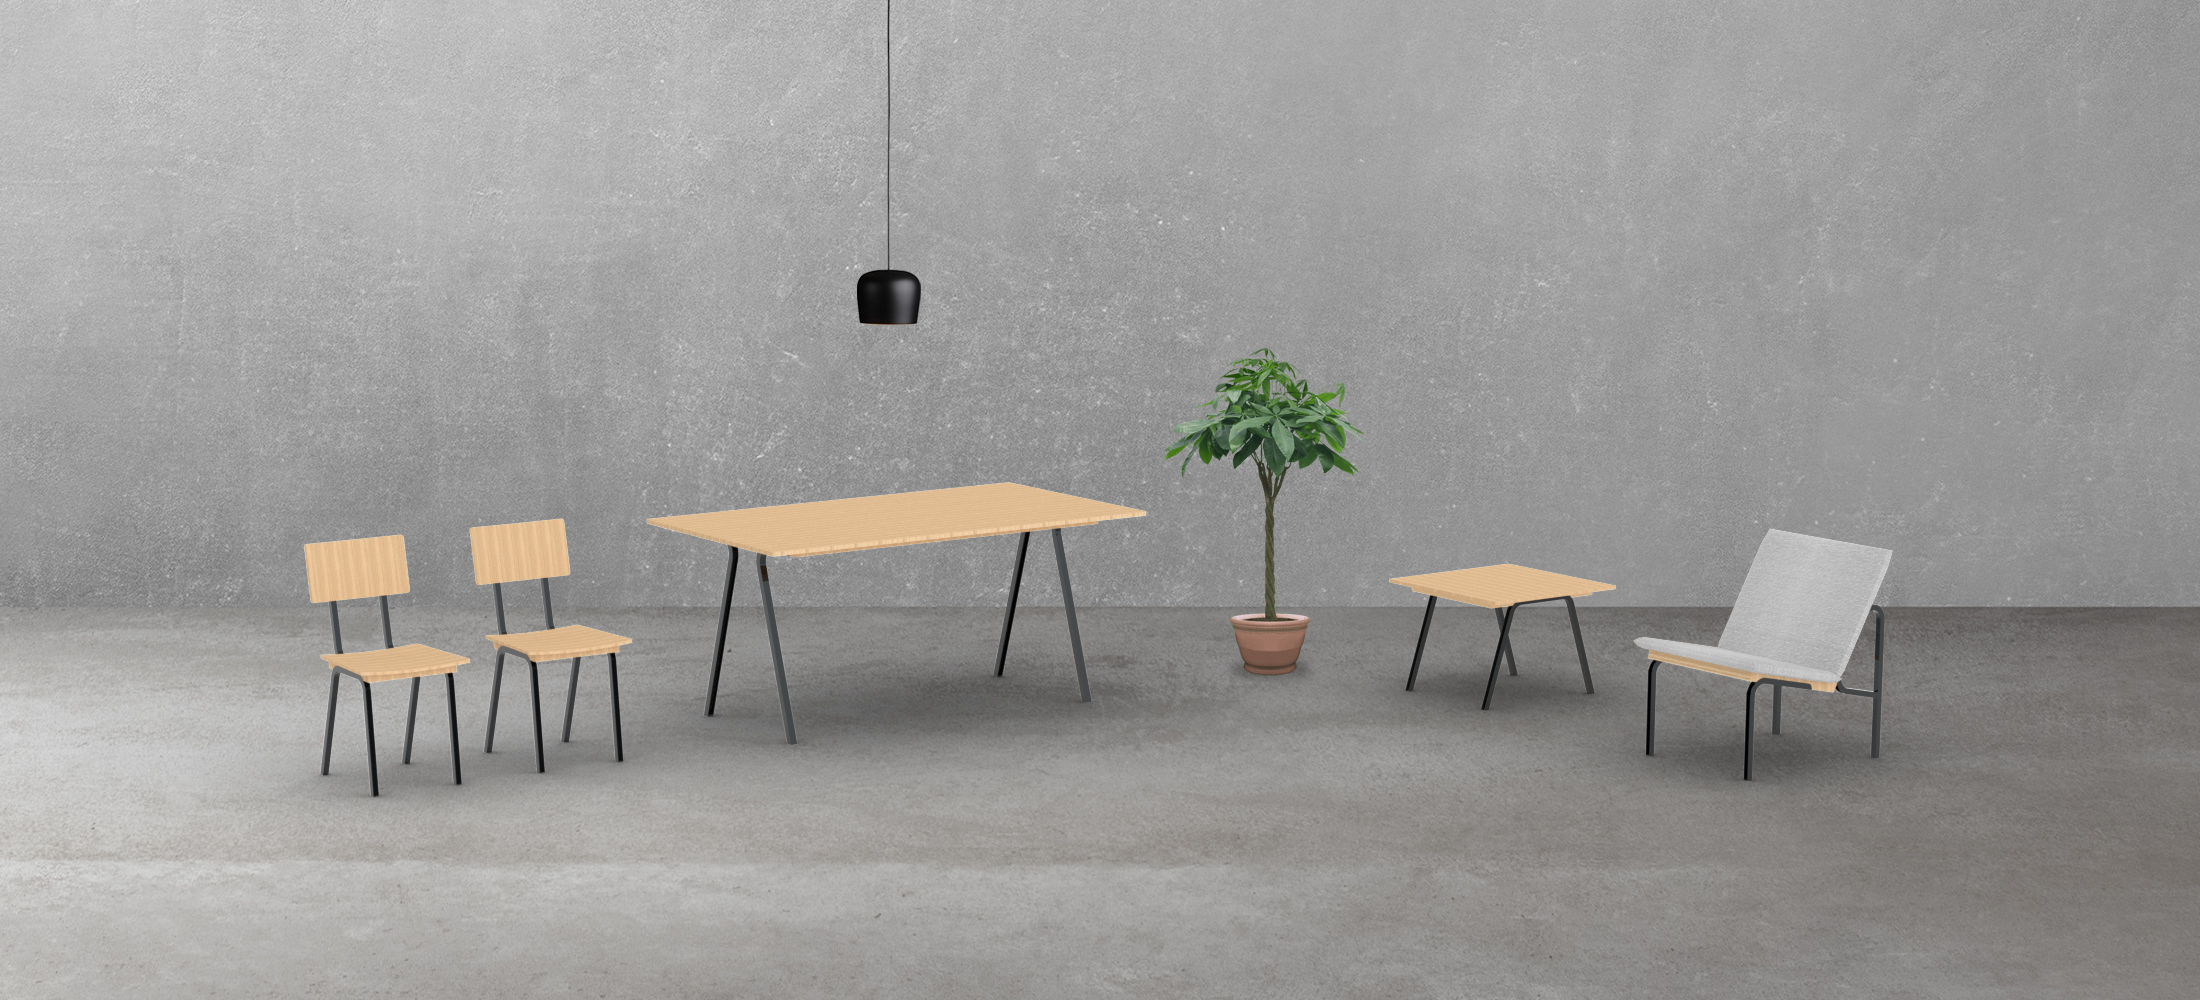
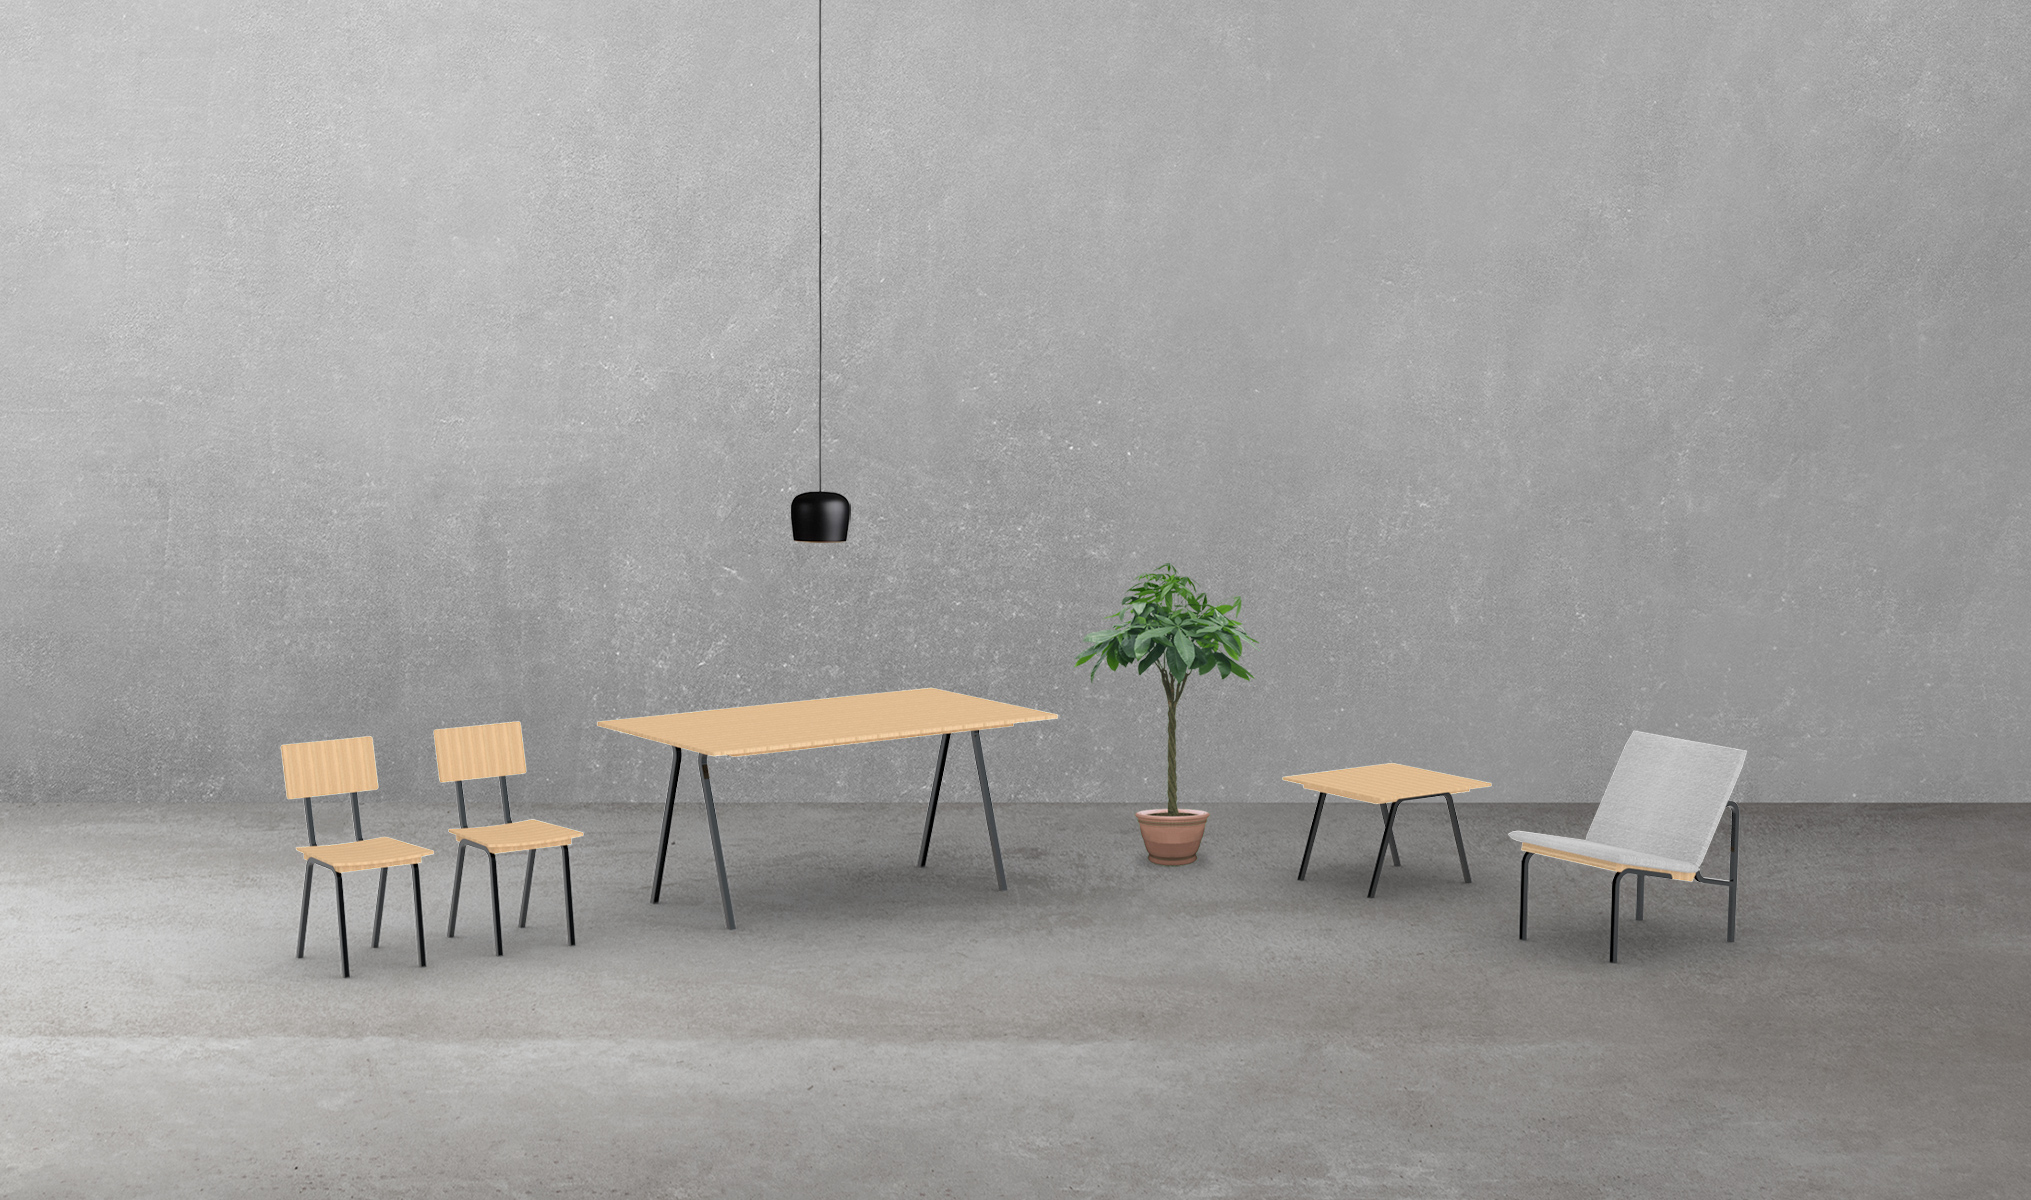
Add kisko series

diff --git a/src/components/ProjectData.js b/src/components/ProjectData.js
@@ -237,11 +237,34 @@ const kiskoDesignProject = {
   isTeam: false,
   categories: ["Furniture Design", "Chair Design", "Component Design"],
   displayableCategory: 2,
-  images: ["kisko1.jpg"],
-  descriptionStyle: descriptionPlacementTopRightCorner,
+  images: [
+    "kisko1.jpg",
+    "kisko2.jpg",
+    "kisko3.jpg",
+    "kisko4.jpg",
+    "kisko5.png",
+  ],
+  descriptionStyle: { width: "270px", right: " 100px", top: " 100px" },
+  descriptionStyleTablet: {
+    top: "70px",
+    right: "80px",
+  },
   mainColorDark: false,
   descriptionColorDark: true,
-  backgroundColor: "black",
+  controlColorDark: true,
+  backgroundColor: "white",
+  imageStyle: {
+    individual: [
+      {},
+      {},
+      {},
+      {},
+      { objectFit: "contain", padding: "100px 200px", boxSizing: "border-box" },
+    ],
+  },
+  imageStyleTablet: {
+    individual: [{}, {}, {}, {}, { padding: "60px 120px" }],
+  },
 };
 
 const kierreDesignProject = {
